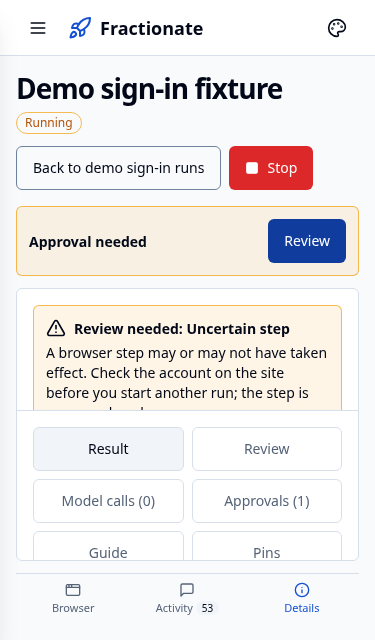
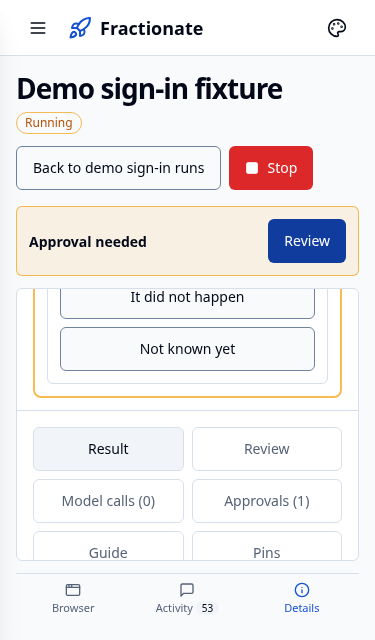
test(operations): await keyboard scrolling before viewport evidence

Changed region(s): [[0.088, 0.4375, 0.9093, 0.6562]]

diff --git a/docs/plans/fractionate-browser-view-ui-20261002.md b/docs/plans/fractionate-browser-view-ui-20261002.md
@@ -14,7 +14,7 @@ Based on shipped main `9b88f8f03925ee4c4cf097e40429897be9195e2f` (PR724). This s
 - Mobile Lighthouse accessibility: 100 for deck, project and project index. Audit timestamps are retained; these numerical audits preceded the final metadata move. Frozen-source behavior verification was rerun after that move.
 - [Verification report](evidence/browser-view-20261002/verification.json), [source and artifact hashes](evidence/browser-view-20261002/manifest.json), [375px screenshot](evidence/browser-view-20261002/phone-375.png), [1280px screenshot](evidence/browser-view-20261002/desktop-1280.png).
 
-The initial resize report is retained as `verification-superseded.json`: its helper reset the requested height to900px. It is superseded by revision2, which records actual heights. The corrected frozen code was built and behavior-checked again. [Give back at375×640](evidence/browser-view-20261002/give-back-375x640.png) and [populated review at375×640](evidence/browser-view-20261002/populated-review-375x640.png) show the corrected cases.
+The initial resize report is retained as `verification-superseded.json`: its helper reset the requested height to900px. It is superseded by revision2, which records actual heights. The corrected frozen code was built and behavior-checked again. The keyboard assertion waits for Chromium to finish its bounded scroll animation before reading the result; both this slice and the broader integrated UI pass the same check. [Give back at375×640](evidence/browser-view-20261002/give-back-375x640.png) and [populated review at375×640](evidence/browser-view-20261002/populated-review-375x640.png) show the corrected cases.
 
 Reference Library identities are preserved in the manifest. The parent inspected the actual source images and supplied the precise annotated placement. Signed materialization downloads repeatedly failed in this worker's saved cloud environment; it did not claim to inspect those unavailable originals. The root inspected actual locally rendered fixture screenshots. The retained frame and Neko viewer are scripted test fixtures, not proof of live production video or a connected external browser.
 
